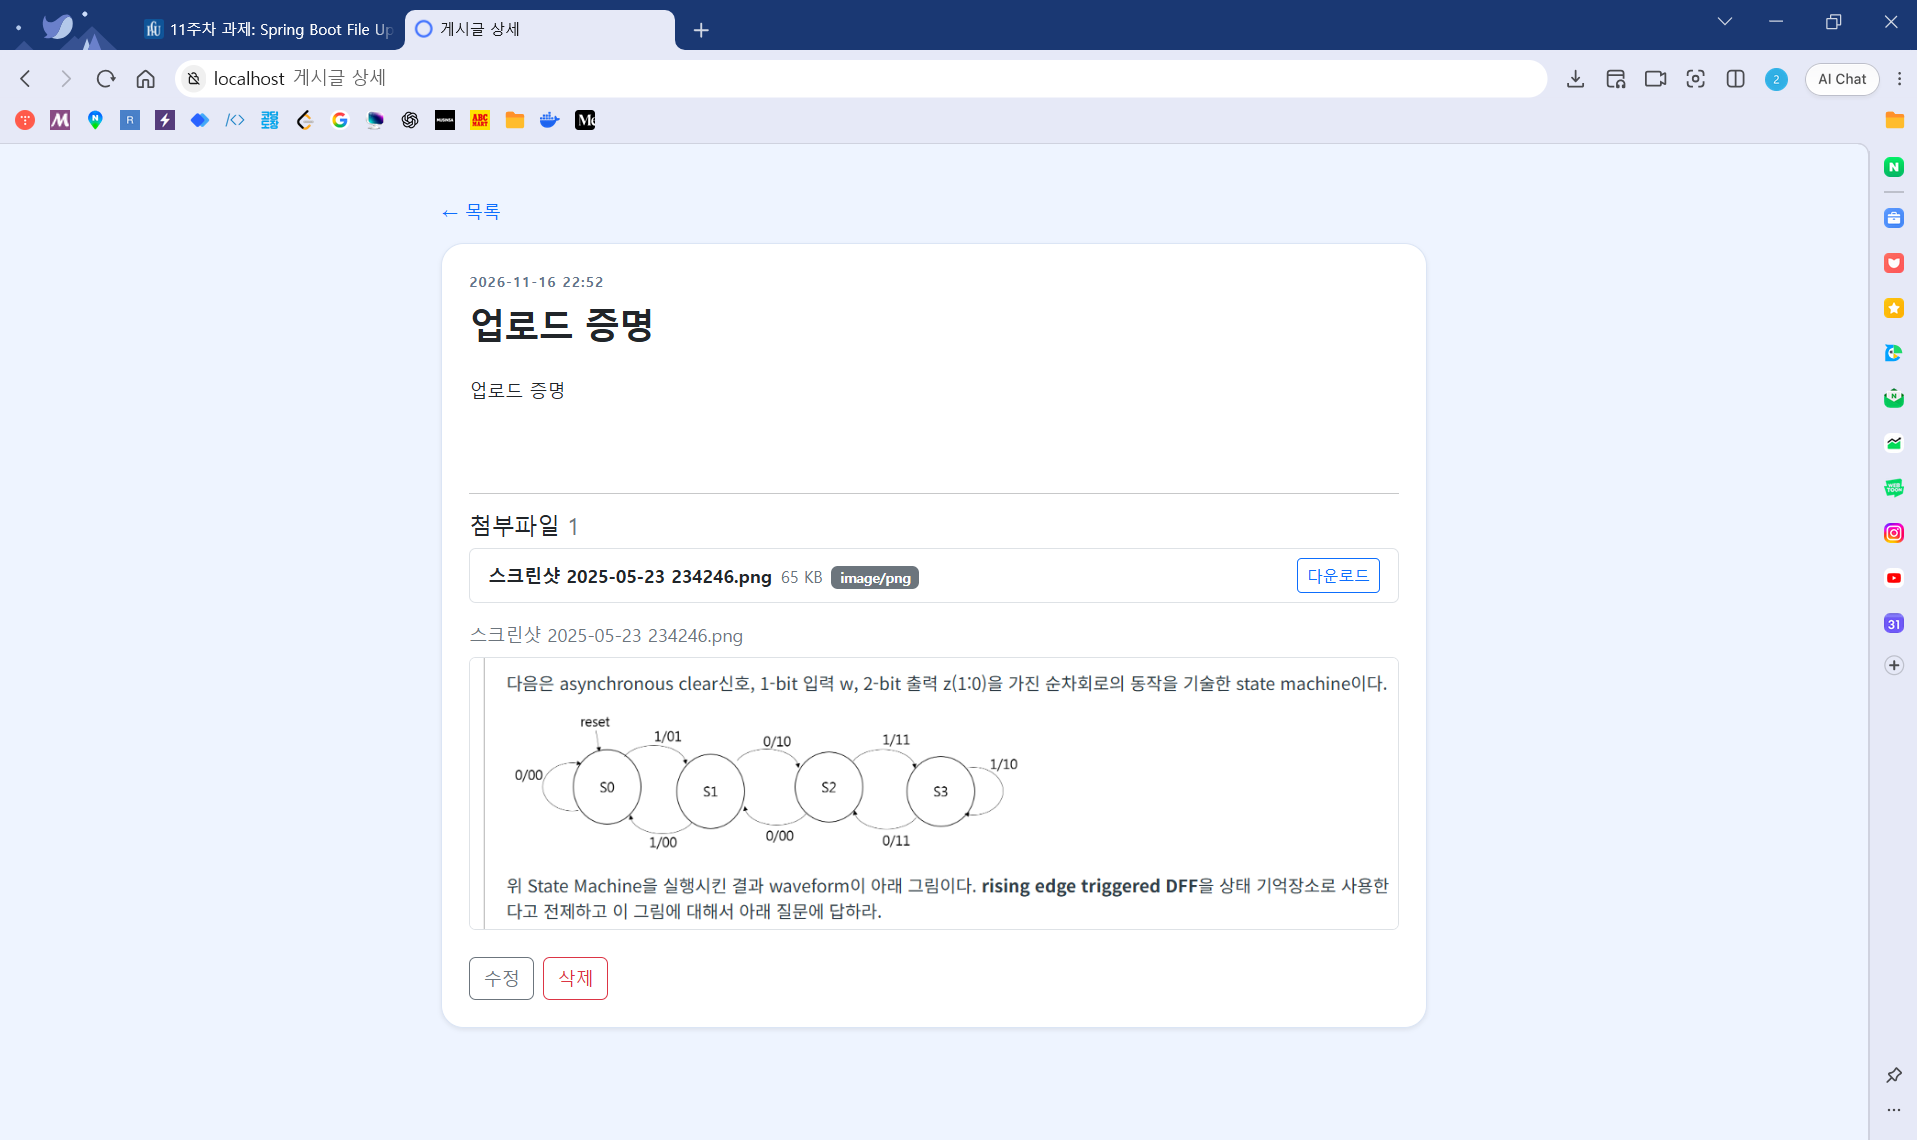
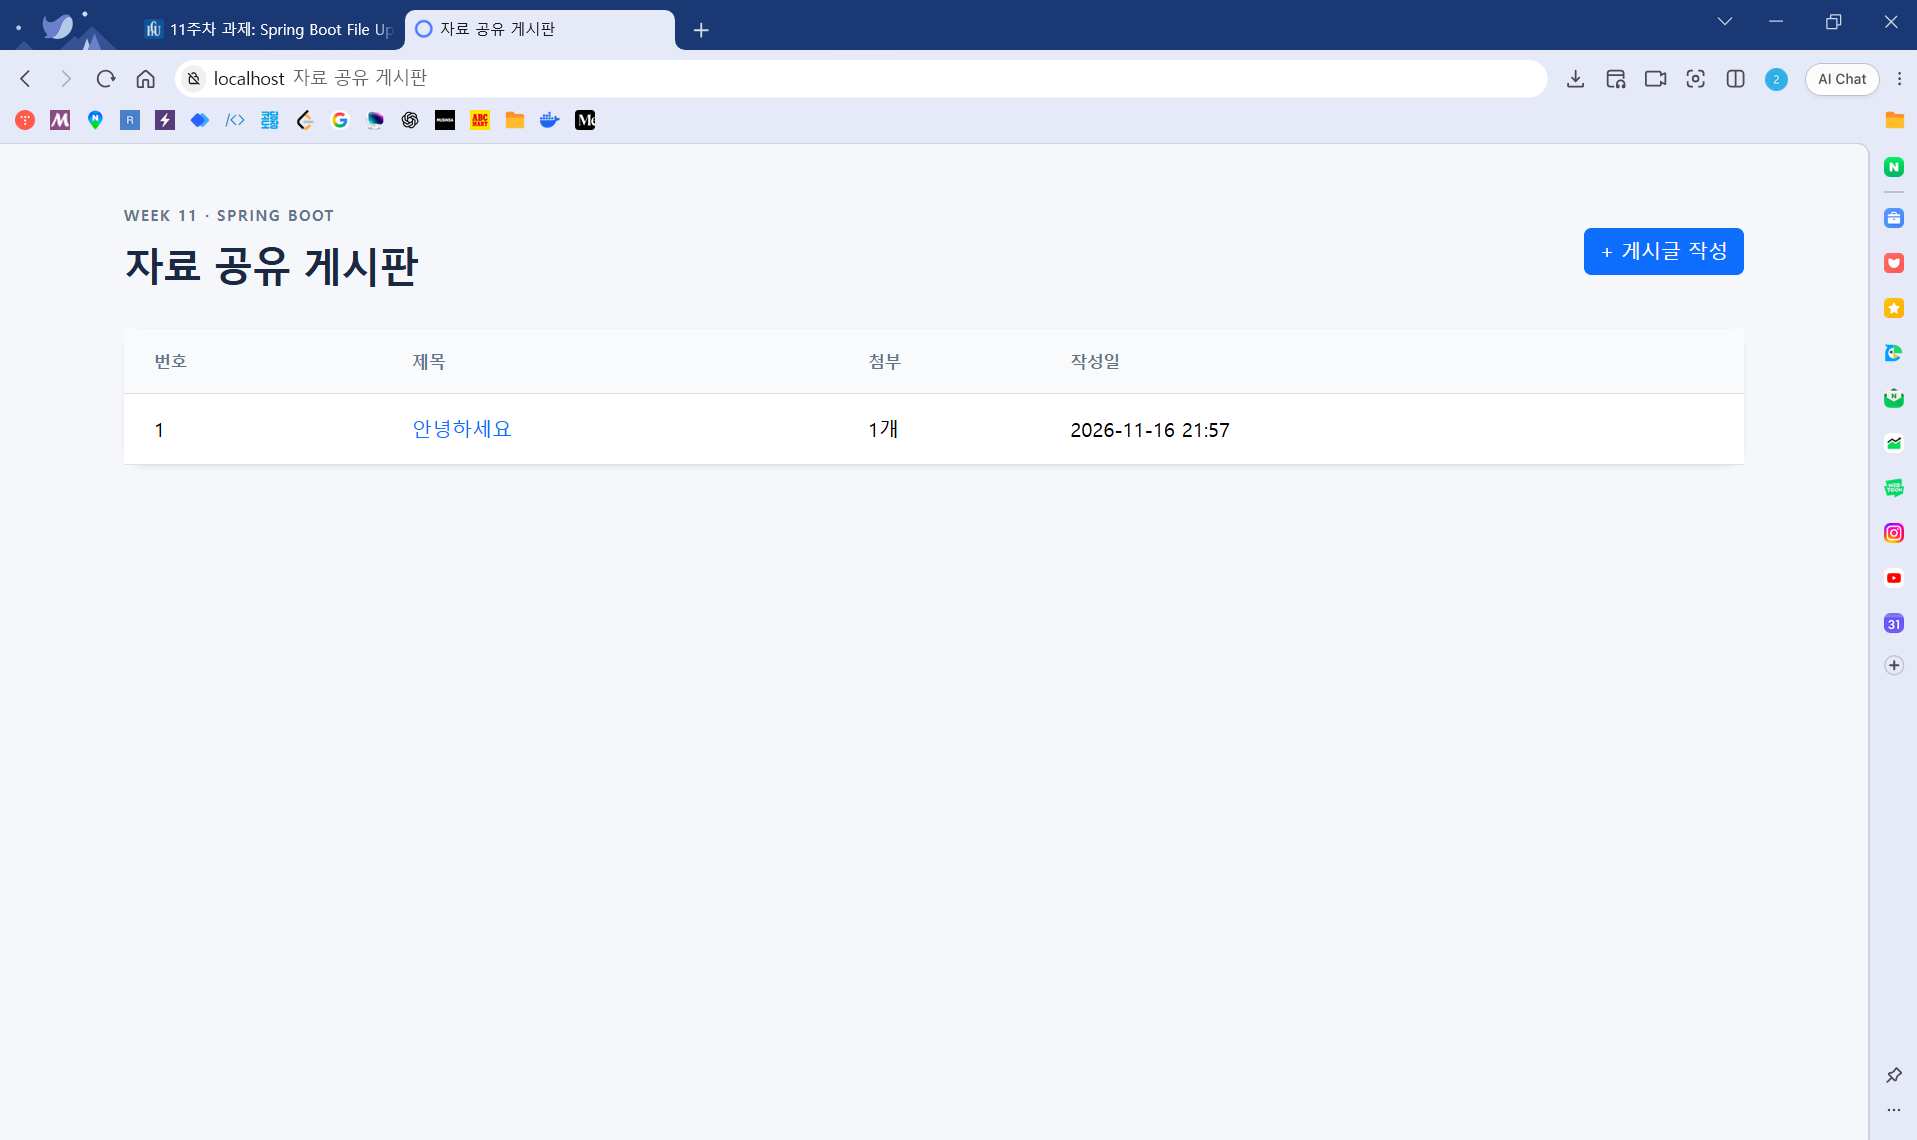
final , write readme file

diff --git a/README.md b/README.md
@@ -2,74 +2,147 @@
 
 ## 1. Project Infomation
 
+* 게시글 및 파일 관리 웹서비스 구현 
+* 게시글의 파일 업로드,다운로드 기능과 이미지 미리보기 기능 구현 
+* 개인 GitHub Repository URL : https://github.com/eojinleecode/22200543-assgin11
+* Deploy URL : https://two2200543-assgin11-1.onrender.com/posts
+* 조직 GitHub Classroom Repository : https://github.com/2026-2-WebService/assign11-c01-22200543
 
 
-## 2. Installation :
+## 2. Installation 
+
+### 개발 환경
+* Java / Spring Boot 3.5.7
+* Spring MVC / Thymeleaf
+* Spring Data JPA
+* MariaDB
+* Gradle
+* IntelliJ IDEA
+* DBeaver
+* Docker / Render
+<br>
+
+### 실행방법 
+1. MariaDB를 실행<br>
+2. DB_URL, DB_USERNAME, DB_PASSWORD 환경변수를 자신의 DB에 맞게 설정<br>
+3. AttachmentBoardApplication.java를 실행<br>
+4. http://localhost:8080/posts 접속하여 정상인지 확인<br>
 
 ## 3. Soruce Code Exploration 
 
 ### Project Structure & Spring MVC
 Q1. PostController, PostService, PostRepository는 각각 어떤 역할을 하며, 서로 어떻게 연결되는가?
 
-PostController는 http 요청 수신하고 Service 메서드를 호출하는 역할을 한다.
-PostService는 게시글 작성,조회,수정,삭제(Crud) 등 비지니스로직을 처리한다.
-PostRepository는 JPA를 통해 DB table에 있는 데이터에 접근하고 다루는 통신적 역할을 하고 있다.
-연결관계는 PostController -> PostService -> PostRepository 이다.
-즉 요청을 받고 메서드 호출에 의해 적절한 기능을 수행하고 그 데이터를 DB에 넣는다.
+* PostController는 http 요청 수신하고 Service 메서드를 호출하는 역할을 한다.<br>
+* PostService는 게시글 작성,조회,수정,삭제(Crud) 등 비지니스로직을 처리한다.<br>
+* PostRepository는 JPA를 통해 DB table에 있는 데이터에 접근하고 다루는 통신적 역할을 하고 있다.<br>
+* 연결관계는 PostController -> PostService -> PostRepository 이다.<br>
+* 즉 요청을 받고 메서드 호출에 의해 적절한 기능을 수행하고 그 데이터를 DB에 넣는다.<br>
 
 Q2. 게시글 작성 시 HTML Form의 입력값과 첨부파일은 Controller에 어떻게 전달되는가?
 
-html form을 제출하게 되면 http요청이 발생되며 그것이 위에 1번 문제의 경로를 통해 결국 서버DB로 전달된다.
-enctype 속성의 mutipart/form-data을 설정하여 텍스트 입력값, 파일 등 하나의 http요청으로 바인딩하여 서버에 전송한다.
-이때 Contorller에서 @ModelAttribute를 사용하여 일반 form data를 DTO 쪽에 바인딩하고 @Requestparam을 이용하여 여러개의 첨부파일을 수신할 수 있다.
+* html form을 제출하게 되면 http요청이 발생되며 그것이 위에 1번 문제의 경로를 통해 결국 서버DB로 전달된다.<br>
+* enctype 속성의 mutipart/form-data을 설정하여 텍스트 입력값, 파일 등 하나의 http요청으로 바인딩하여 서버에 전송한다.<br>
+* 이때 Contorller에서 @ModelAttribute를 사용하여 일반 form data를 DTO 쪽에 바인딩하고 @Requestparam을 이용하여 여러개의 첨부파일을 수신할 수 있다.<br>
 
 ### JPA & Entity Relationship
 
 Q3. Post와 Attachment Entity는 어떤 관계이며, @ManyToOne과 @OneToMany는 각각 어떤 역할을 하는가?
 
-두 Entity는 일 대 다수 관계를 가집니다. 즉 Post(게시글)하나에 여러개의 첨부파일을 참조할수 있다는 의미를 지니고 있다.
-@ManyToOne는 여러 첨부파일이 하나의 게시글에 속한다는 것을 명시하는 어노테이션 역할이다.
-@OneToMany는 하나의 게시글이 여러 첨부파일을 가진다는 것을 명시하는 어노테이션 역할이다.
+* 두 Entity는 일 대 다수 관계를 가집니다. 즉 Post(게시글)하나에 여러개의 첨부파일을 참조할수 있다는 의미를 지니고 있다.<br>
+* @ManyToOne는 여러 첨부파일이 하나의 게시글에 속한다는 것을 명시하는 어노테이션 역할이다.<br>
+* @OneToMany는 하나의 게시글이 여러 첨부파일을 가진다는 것을 명시하는 어노테이션 역할이다.<br>
 
 Q4. cascade = CascadeType.ALL과 orphanRemoval = true는 어떤 역할을 하며, 실제 디스크에 저장된 파일에도 영향을 주는가?
 
-cascade = CascadeType.ALL 은 부모 Entity(Post)의 정보 변화를 자식 Entity(Attachment)에도 전파하는 역할을한다.
-orphanRemoval = true 은 부모 Entity의 컬렉션에서 자식 Entity 관계가 끊어지면 자식 Entity를 DB에서 자동으로 삭제하는 역할이다.
-두 설정 모두, 서버 디스크에 파일에 영향을 주지 않는다. 두 설정은 그저 Entity 관리에만 영향을 끼친다.
+* cascade = CascadeType.ALL 은 부모 Entity(Post)의 정보 변화를 자식 Entity(Attachment)에도 전파하는 역할을한다.<br>
+* orphanRemoval = true 은 부모 Entity의 컬렉션에서 자식 Entity 관계가 끊어지면 자식 Entity를 DB에서 자동으로 삭제하는 역할이다.<br>
+* 두 설정 모두, 서버 디스크에 파일에 영향을 주지 않는다. 두 설정은 그저 Entity 관리에만 영향을 끼친다.<br>
 
 ### File Upload
 
 Q5. MultipartFile은 무엇이며, 업로드된 파일은 어떤 과정을 거쳐 서버에 저장되는가?
 
-MultipartFile은 업로드 된 파일을 처리하기 위한 인터페이스이다. 실제 저장된 파일이 아닌 http 요청으로 전달 받은 업로드 파일 자체를 표현한다.
-저장 과정 : 사용자가 어느 한 파일을 제출하면 , Controller가 MultipartFile로 요청을 수신한 후 , Service layer에서 확장자,크기 등을 체킹합니다.
-그리고 저장 파일명을 정하고, 지정된 서버 폴더에 실제 파일을 저장한다. 마지막엔 DB에 원본 파일명, 저장 경로,메타데이터를 저장한다.
+* MultipartFile은 업로드 된 파일을 처리하기 위한 인터페이스이다. 실제 저장된 파일이 아닌 http 요청으로 전달 받은 업로드 파일 자체를 표현한다.<br>
+* 저장 과정 : 사용자가 어느 한 파일을 제출하면 , Controller가 MultipartFile로 요청을 수신한 후 , Service layer에서 확장자,크기 등을 체킹합니다.<br>
+그리고 저장 파일명을 정하고, 지정된 서버 폴더에 실제 파일을 저장한다. 마지막엔 DB에 원본 파일명, 저장 경로,메타데이터를 저장한다.<br>
 
 Q6. 파일을 원본 이름 대신 UUID 기반 파일명으로 저장하는 이유는 무엇인가?
 
-웹에서는 실제 파일, 파일에 관한 DB 정보를 구분하고 원본명과 저장명을 분리해서 관리한다.
-식별자 즉, 파일명 중복 및 덮어쓰기 문제를 방지하기 위해서이다.
+* 웹에서는 실제 파일, 파일에 관한 DB 정보를 구분하고 원본명과 저장명을 분리해서 관리한다.<br>
+식별자 즉, 파일명 중복 및 덮어쓰기 문제를 방지하기 위해서이다.<br>
 
 ### File Download & Security
 
 Q7. 파일 다운로드 시 Resource, ResponseEntity, Content-Disposition은 각각 어떤 역할을 하는가?
 
-Resource는 Controller에서 파일 데이터를 반환할 때 사용되는 인터페이스 역할을 한다.
-ResponseEntity는 http 응답의 상태코드,header,body 를 구성하여 파일 데이타를 전달하는 객체 역할을 한다.
-Content-Disposition는 브라우저가 파일을 다운로드 하도록 지정한다, 이 때 원본 파일명과 다운로드 동작을 설정하는데 하는 역할을 한다.
+* Resource는 Controller에서 파일 데이터를 반환할 때 사용되는 인터페이스 역할을 한다.<br>
+* ResponseEntity는 http 응답의 상태코드,header,body 를 구성하여 파일 데이타를 전달하는 객체 역할을 한다.<br>
+* Content-Disposition는 브라우저가 파일을 다운로드 하도록 지정한다, 이 때 원본 파일명과 다운로드 동작을 설정하는데 하는 역할을 한다.<br>
 
 Q8. 파일 저장 과정에서 normalize()와 startsWith()를 사용하는 이유는 무엇인가?
 
-normalize()는 경로를 정리하는 역할이고 startsWith()은 타겟경로가 지정된 업로드 디렉토리에 있는지 확인한다.
-이를 사용하는 이유는 악의적인 경로 접근, 즉 Path Traversal을 예방하기 위함이다.
+* normalize()는 경로를 정리하는 역할이고 startsWith()은 타겟경로가 지정된 업로드 디렉토리에 있는지 확인한다.<br>
+이를 사용하는 이유는 악의적인 경로 접근, 즉 Path Traversal을 예방하기 위함이다.<br>
 
 ## 4. Customizing
+* 텍스트 변경 전: 기존 게시판 제목 및 게시글 작성 버튼<br>
+* 텍스트 변경 후: 게시판 제목과 버튼 문구 변경<br>
+* 결과: 표시되는 안내 문구 개선<br>
 
+
+* css 변경 전: 기본 Sample Project 디자인<br>
+* css 변경 후: 배경색, 버튼 색상, 카드 디자인 수정<br>
+* 결과: 게시판 UI 디자인 변경<br>
+
+
+* detail.html 변경 전: 첨부파일 이름과 크기만 표시 <br>
+detail.html 변경 후: 파일 MIME 타입도 함께 표시<br>
+* 결과: image/png, application/pdf 등의 파일 형식을 확인할 수 있음<br>
 
 ## 5. New Feature
 
+* 첨부파일 ID를 통해 파일 정보 조회 <br>
+JPG, JPEG, PNG, GIF 파일만 허용<br>
+Resource와 ResponseEntity를 이용해 이미지 반환<br>
+404 오류 처리 ,415 오류 처리<br>
+
+* templates/posts/detail.html<br>
+Thymeleaf의 th:each와 th:if를 사용<br>
+이미지 파일인 경우에만 img 태그 표시<br>
+기존 첨부파일 다운로드 버튼 유지<br>
 
 ## 6. Testing & Deployment
 
+![](results/sample.png)
 
+
+![](results/upload.png)
+
+
+![](results/download.png)
+
+
+![](results/preview.png)
+ 
+<br>
+
+* Deploy URL : https://two2200543-assgin11-1.onrender.com/posts <br>
 ## 7. Weekly Review
+
+### 새롭게 배운 내용 3가지
+1. UUID 기반을 사용하는 이유에 대해 학습<br>
+2. MultipartFile을 활용하여 일반 Form 데이터와 첨부파일을 함께 처리하는 방법을 학습<br>
+3. Resource, ResponseEntity, Content-Disposition을 기반한 파일 다운로드, 이미지 미리보기 기능 구현<br>
+
+
+### 어려웠던 점과 해결 방법
+Problem: 이미지 미리보기 기능을 구현하는 과정,  detail.html을 수정하다가 의 <div> 태그가 중복되어 HTML 구조를 수정하는 데 어려움이 있었다.
+Solution: control + F 로 div구간을 찾아 코드를 비교하며 중복된 태그를 제거
+
+### AI 활용 내용 및 느낀 점
+
+* AI :AttachmentController의 view() 메서드와 Thymeleaf의 <img>, th:if, th:each 사용 방법, detail.html의 중복 태그
+* 느낀점 : 파일에 관한 정보는 DB에서 별도로 관리한다는 점을 새롭게 알게 되었으며, 백엔드쪽에서 파일접근이 어떻게 이뤄지는지 조금 알 수 있었다는 생각이 들었다.
+ css나 html쪽에는 직접 실행 결과를 확인하면서 html의 변화를 보며 수정할 점을 찾게 되어 조금 더 가시적이라는 생각이 들었다. 그리고 새로운 기능을 추가하는 과정이 어렵지만 흥미로웠습니다.
+
